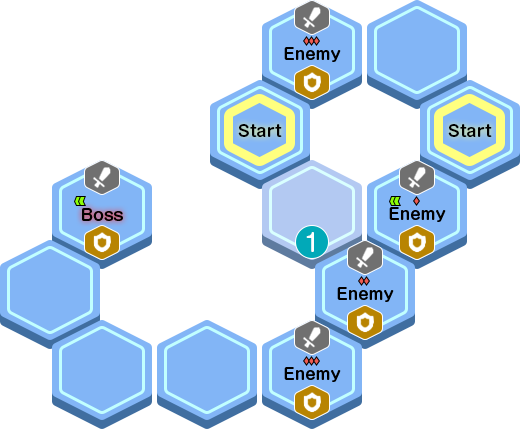
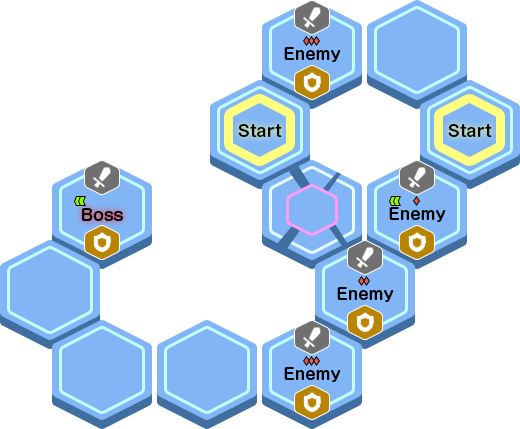
Support broken tiles

Changed region(s): [[0.4923, 0.3636, 0.7077, 0.6364]]

diff --git a/maputil.py b/maputil.py
@@ -1,6 +1,6 @@
-from overlay import EnemyInfo, Marker, BonusInfo
-from tilemap import NormalTile, StartTile, PortalTile, PortalEntranceTile, PortalExitTile, HideTriggerTile, HideTile, \
-    SpawnTriggerTile, SpawnTile
+from overlay import BonusInfo, EnemyInfo, Marker
+from tilemap import BrokenTile, HideTile, HideTriggerTile, NormalTile, PortalEntranceTile, PortalExitTile, PortalTile, \
+    SpawnTile, SpawnTriggerTile, StartTile
 
 
 def get_strategies(map, data):
@@ -134,9 +134,13 @@ def get_tiles(map, data):
         yield exit, PortalTile(overlay=[Marker(number)])
 
     for trigger, hide in get_hide_tiles(map):
-        number += 1
-        yield trigger, HideTriggerTile(overlay=[Marker(number)])
-        yield hide, HideTile(overlay=[Marker(number), bonus_infos.get(hide) or enemy_infos.get(hide)])
+        if trigger == hide:
+            # It's a broken tile
+            yield trigger, BrokenTile(overlay=[bonus_infos.get(trigger) or enemy_infos.get(trigger)])
+        else:
+            number += 1
+            yield trigger, HideTriggerTile(overlay=[Marker(number)])
+            yield hide, HideTile(overlay=[Marker(number), bonus_infos.get(hide) or enemy_infos.get(hide)])
 
     for trigger, spawn in get_spawn_tiles(map):
         number += 1

diff --git a/tilemap.py b/tilemap.py
@@ -16,6 +16,11 @@ class Tile:
             overlay.draw(im, assets, x, y, len(drawable) == 2)
 
 
+class BrokenTile(Tile):
+    def __init__(self, overlay=None):
+        super().__init__('tile_broken', overlay=overlay)
+
+
 class HideTile(Tile):
     def __init__(self, overlay=None):
         super().__init__('tile_hide', overlay=overlay)
